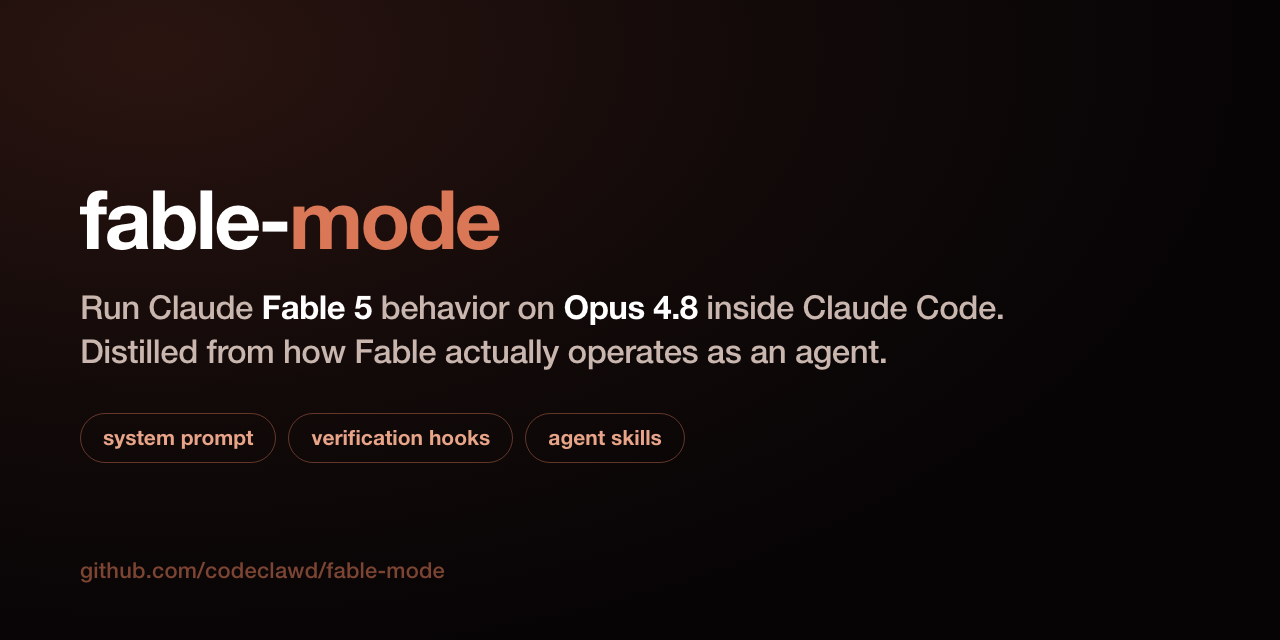
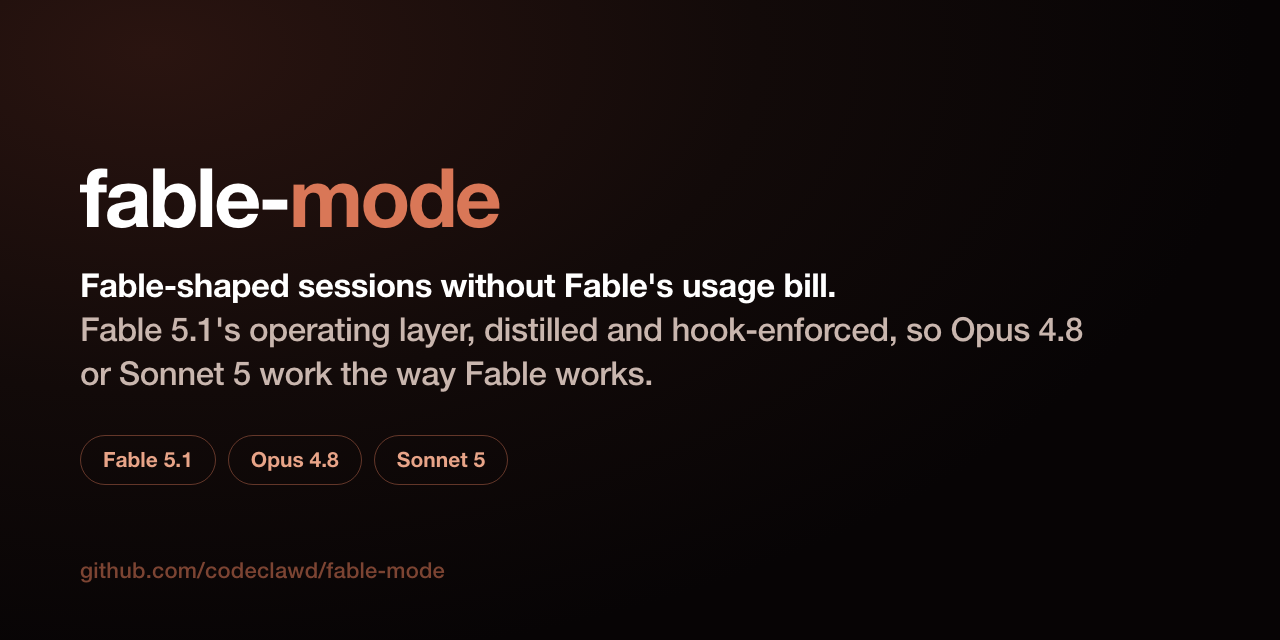
Drop the 404 link to the unpublished harness; refresh the social card for the v3 positioning

Changed region(s): [[0.0625, 0.25, 0.8438, 0.625], [0.0625, 0.6562, 0.5312, 0.75]]

diff --git a/README.md b/README.md
@@ -89,7 +89,7 @@ Removes the bundled files from `~/.claude`, strips the `fable` launcher line, an
 
 ## Pairs with loop-harness-system
 
-[loop-harness-system](https://github.com/HalalifyMusic/loop-harness-system) is the execution-discipline layer to this repo's behavior layer: contract-first building, fresh-context evaluation, crash-resumable 3-file state. When it's installed (`~/.claude/docs/LOOP-HARNESS.md` exists), `fable-trigger.py` adds a one-line bridge to every session pointing the model at it — fable-mode governs how each role *thinks and writes*, the harness governs how work is *structured and judged*.
+`loop-harness-system` is the execution-discipline layer to this repo's behavior layer: contract-first building, fresh-context evaluation, crash-resumable 3-file state. When it's installed (`~/.claude/docs/LOOP-HARNESS.md` exists), `fable-trigger.py` adds a one-line bridge to every session pointing the model at it — fable-mode governs how each role *thinks and writes*, the harness governs how work is *structured and judged*. The harness is not published yet — the bridge stays dormant until the file exists, so nothing here depends on it.
 
 ## The honest ceiling
 
